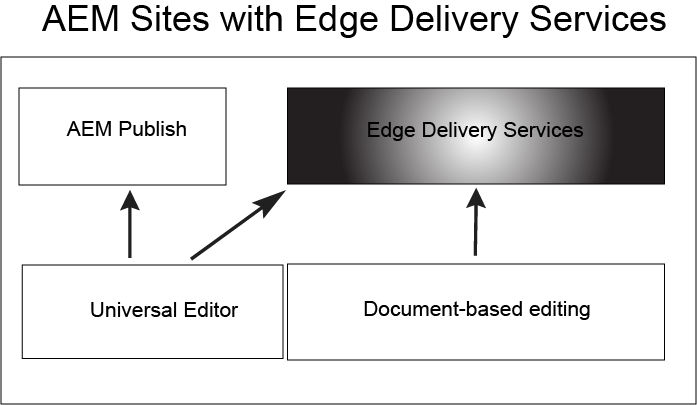
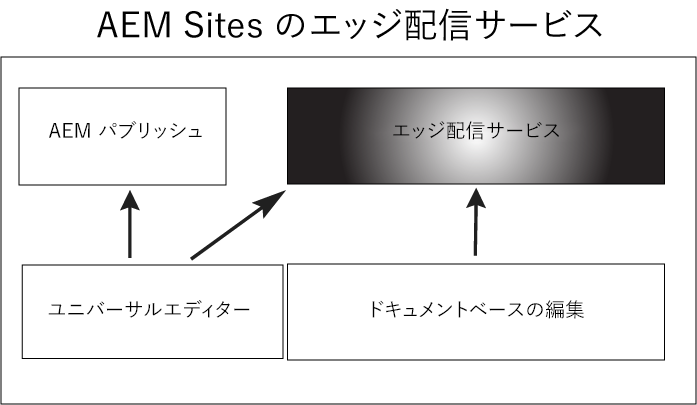
Updated by task 'AUTO_HANDOFF_PRIORITY_1706604686057'  Changes for core/source commit https://git.corp.adobe.com/AdobeDocs/experience-manager-cloud-service.en/commit/6ef216b101fdb3c7de49928ccb02b7c9c1bdbd41

diff --git a/help/release-notes/deprecated-removed-features.md b/help/release-notes/deprecated-removed-features.md
@@ -3,9 +3,9 @@ title: 廃止される機能および削除された機能
 description: リリースノート（ [!DNL Adobe Experience Manager] as a [!DNL Cloud Service] の非推奨（廃止予定）の機能と削除された機能）。
 exl-id: ef082184-4eb7-49c7-8887-03d925e3da6f
 source-git-commit: cb2c883fbadc5347dbe5fc50337abc41d4f5cec3
-workflow-type: tm+mt
+workflow-type: ht
 source-wordcount: '2068'
-ht-degree: 96%
+ht-degree: 100%
 
 ---
 
@@ -37,11 +37,11 @@ ht-degree: 96%
 | [!DNL Sites] | **ソーシャルメディアのステータス** のエクスペリエンスフラグメントのプロパティ。  | この機能は間もなく削除されます。 |
 | [!DNL Sites] | テンプレートベースのシンプルなコンテンツフラグメント。 | 現在は[モデルベースの構造化コンテンツフラグメント](/help/assets/content-fragments/content-fragments-models.md)。 |
 | [!DNL Assets] | 取り込んだ画像を処理する `DAM Asset Update` ワークフロー | 現在は、アセットの取り込みで[アセットマイクロサービス](/help/assets/asset-microservices-overview.md)が使用されています。 |
-| [!DNL Assets] | にアセットを直接アップロード [!DNL Experience Manager]. 詳しくは、 [非推奨（廃止予定）のアセットアップロード API](/help/assets/developer-reference-material-apis.md#deprecated-asset-upload-api). | [直接バイナリアップロード](/help/assets/add-assets.md)を使用。技術的な詳細については、[直接アップロード API](/help/assets/developer-reference-material-apis.md#upload-binary) を参照してください。 |
+| [!DNL Assets] | [!DNL Experience Manager] へのアセットの直接アップロード。[非推奨（廃止予定）のアセットアップロード API](/help/assets/developer-reference-material-apis.md#deprecated-asset-upload-api) を参照してください。 | [直接バイナリアップロード](/help/assets/add-assets.md)を使用。技術的な詳細については、[直接アップロード API](/help/assets/developer-reference-material-apis.md#upload-binary) を参照してください。 |
 | [!DNL Assets] | [!DNL ImageMagick] などのコマンドラインツールの呼び出しを含め、`DAM Asset Update` ワークフローの[特定のワークフローステップ](/help/assets/developer-reference-material-apis.md#post-processing-workflows-steps)はサポートされていません。 | [アセットマイクロサービス](/help/assets/asset-microservices-overview.md)が多くのワークフローの代替機能となります。カスタム処理の場合は、[後処理ワークフロー](/help/assets/asset-microservices-configure-and-use.md#post-processing-workflows)を使用します。 |
 | [!DNL Assets] | ビデオの FFmpeg トランスコード。 | FFmpeg サムネールの生成には、[アセットマイクロサービス](/help/assets/asset-microservices-overview.md)を使用。FFmpeg トランスコードの場合は、[Dynamic Media](/help/assets/manage-video-assets.md) を使用。 |
 | [!DNL Foundation] | レプリケーションエージェントの「配布」タブのツリーレプリケーション UI（2021 年 9 月 30 日以降に削除） | [公開を管理](/help/operations/replication.md#manage-publication)または[コンテンツツリーの公開ワークフロー](/help/operations/replication.md#publish-content-tree-workflow)アプローチ |
-| [!DNL Foundation] | レプリケーションエージェント管理画面の「配布」タブも、レプリケーション API も、10 MB を超えるコンテンツパッケージのレプリケーションに使用できません。 代わりに、次のいずれかを使用します。 [公開を管理](/help/operations/replication.md#manage-publication) または [コンテンツツリーの公開ワークフロー](/help/operations/replication.md#publish-content-tree-workflow) |
+| [!DNL Foundation] | レプリケーションエージェントの管理画面の「配布」タブも、レプリケーション API も、10 MB を超えるコンテンツパッケージのレプリケーションには使用できません。代わりに、[パブリケーションの管理](/help/operations/replication.md#manage-publication)または[コンテンツツリーワークフローの公開](/help/operations/replication.md#publish-content-tree-workflow)を使用します |
 
 ## 削除された機能 {#removed-features}
 
@@ -80,7 +80,7 @@ OSGI 設定に関する追加情報は、[この場所](/help/implementing/deplo
 * **`org.apache.sling.jcr.davex.impl.servlets.SlingDavExServlet`**（発表日：8/25/2021、施行日：11/26/2021）
 +++
 
-+++OSGi 設定は、ビルド検証ルールに従う必要があります。
++++ビルド検証ルールの対象となる OSGi 設定。
 * **`org.apache.felix.eventadmin.impl.EventAdmin`**（発表日：4/30/2021、施行日：7/31/2021）
 * `org.apache.felix.eventadmin.ThreadPoolSize`
    * 型：integer
@@ -232,7 +232,7 @@ OSGI 設定に関する追加情報は、[この場所](/help/implementing/deplo
     <td>com.day.cq.jcrclustersupport</td>
     <td>Sling の Discovery API を代わりに使用してください。</td>
     <td>2015</td>
-    <td>削除</td>
+    <td>削除済み</td>
   </tr>
   <tr>
     <td>org.apache.sling.settings</td>
@@ -244,13 +244,13 @@ OSGI 設定に関する追加情報は、[この場所](/help/implementing/deplo
     <td>org.apache.fop.apps</td>
     <td></td>
     <td>2021/3/1</td>
-    <td>削除</td>
+    <td>削除済み</td>
   </tr>
   <tr>
     <td>org.apache.jackrabbit.vault.util.xml.xerces.dom<br>org.apache.jackrabbit.vault.util.xml.xerces.util<br>org.apache.jackrabbit.vault.util.xml.xerces.xni<br>org.apache.jackrabbit.vault.util.xml.xerces.xni.parser</td>
     <td></td>
     <td>2021/3/5</td>
-    <td>削除</td>
+    <td>削除済み</td>
   </tr>
   <tr>
     <td>org.json</td>
@@ -262,7 +262,7 @@ OSGI 設定に関する追加情報は、[この場所](/help/implementing/deplo
     <td>org.apache.felix.cm<br>org.apache.felix.cm.file</td>
     <td>AEM as a Cloud Service では、カスタム永続性マネージャーはサポートされていません。</td>
     <td>2021/4/30</td>
-    <td>削除</td>
+    <td>削除済み</td>
   </tr>
   <tr>
     <td>org.apache.commons.lang<br>org.apache.commons.lang.enums<br>org.apache.commons.lang.builder<br>org.apache.commons.lang.exception<br>org.apache.commons.lang.math<br>org.apache.commons.lang.mutable<br>org.apache.commons.lang.reflect<br>org.apache.commons.lang.text<br>org.apache.commons.lang.time</td>
@@ -280,7 +280,7 @@ OSGI 設定に関する追加情報は、[この場所](/help/implementing/deplo
     <td>org.apache.felix.systemready</td>
     <td>Apache Felix HealthCheck API を代わりに使用することをお勧めします。</td>
     <td>2021/4/30</td>
-    <td>削除</td>
+    <td>削除済み</td>
   </tr>
   <tr>
     <td>org.apache.felix.webconsole<br>org.apache.felix.webconsole.bundleinfo<br>org.apache.felix.webconsole.i18n</td>
@@ -304,13 +304,13 @@ OSGI 設定に関する追加情報は、[この場所](/help/implementing/deplo
     <td>org.apache.felix.metatype<br>org.apache.felix.scr<br>org.apache.felix.scr.info<br>org.apache.felix.scr.component</td>
     <td>Apache Felix メタタイプと SCR API は非推奨（廃止予定）です。OSGi メタタイプおよび Declarative Service API を代わりに使用してください。</td>
     <td>2021/5/27</td>
-    <td>削除</td>
+    <td>削除済み</td>
   </tr>
   <tr>
     <td>org.slf4j.impl</td>
     <td>ログ実装クラスは、AEM as a Cloud Service と互換性がありません。</td>
     <td>2021/7/4</td>
-    <td>削除</td>
+    <td>削除済み</td>
   </tr>
   <tr>
     <td>org.apache.abdera<br>org.apache.abdera.model<br>org.apache.abdera.factory<br>org.apache.abdera.ext.media<br>org.apache.abdera.util<br>org.apache.abdera.i18n.iri<br>org.apache.abdera.writer<br>org.apache.abdera.i18n.rfc4646<br>org.apache.abdera.i18n.rfc4646.enums<br>org.apache.abdera.i18n.text<br>org.apache.abdera.filter<br>org.apache.abdera.xpath<br>org.apache.abdera.i18n.text.io<br>org.apache.abdera.i18n.text.data<br>org.apache.abdera.parser</td>
@@ -328,19 +328,19 @@ OSGI 設定に関する追加情報は、[この場所](/help/implementing/deplo
     <td>org.apache.sling.startupfilter<br>com.adobe.granite.crypto.spi<br>com.adobe.granite.crpyto.spi.base<br>com.adobe.agl.impl.data.icudt40b<br>com.adobe.agl.impl.data.icudt40b.brkitr<br>com.adobe.agl.impl.data.icudt40b.coll<br>com.adobe.agl.impl.data.icudt40b.rbnf<br>com.<br>adobe.agl.impl.data.icudt40b.translit<br>com.adobe.internal.pdf.tika<br>com.adobe.internal.pdftoolkit.color<br>com.adobe.internal.pdftoolkit.core.encryption<br>com.adobe.internal.pdftoolkit.core.encryption.impl<br>com.adobe.internal.pdftoolkit.core.traverser<br>com.adobe.internal.pdftoolkit.graphicsDOM<br>com.adobe.internal.pdftoolkit.graphicsDOM.shading<br>com.adobe.internal.pdftoolkit.graphicsDOM.utils<br>com.adobe.internal.pdftoolkit.image<br>com.adobe.internal.pdftoolkit.pdf.content<br>com.adobe.internal.pdftoolkit.pdf.content.processor<br>com.adobe.internal.pdftoolkit.pdf.content.processor.base14fontwidths<br>com.adobe.internal.pdftoolkit.pdf.contentmodify<br>com.adobe.internal.pdftoolkit.pdf.contentmodify.impl<br>com.adobe.internal.pdftoolkit.pdf.digsig<br>com.adobe.internal.pdftoolkit.pdf.document<br>com.adobe.internal.pdftoolkit.pdf.document.listener<br>com.adobe.internal.pdftoolkit.pdf.document.permissionhandlers<br>com.adobe.internal.pdftoolkit.pdf.filters<br>com.adobe.internal.pdftoolkit.pdf.graphics<br>com.adobe.internal.pdftoolkit.pdf.graphics.colorspaces<br>com.adobe.internal.pdftoolkit.pdf.graphics.colorspaces.cmykresources<br>com.adobe.internal.pdftoolkit.pdf.graphics.font<br>com.adobe.internal.pdftoolkit.pdf.graphics.font.encodings<br>com.adobe.internal.pdftoolkit.pdf.graphics.font.impl<br>com.adobe.internal.pdftoolkit.pdf.graphics.impl<br>com.adobe.internal.pdftoolkit.pdf.graphics.optionalcontent<br>com.adobe.internal.pdftoolkit.pdf.graphics.patterns<br>com.adobe.internal.pdftoolkit.pdf.graphics.shading<br>com.adobe.internal.pdftoolkit.pdf.graphics.xobject<br>com.adobe.internal.pdftoolkit.pdf.impl<br>com.adobe.internal.pdftoolkit.pdf.inlineimage<br>com.adobe.internal.pdftoolkit.pdf.interactive<br>com.adobe.internal.pdftoolkit.pdf.interactive.action<br>com.adobe.internal.pdftoolkit.pdf.interactive.annotation<br>com.adobe.internal.pdftoolkit.pdf.interactive.forms<br>com.adobe.internal.pdftoolkit.pdf.interactive.forms.impl<br>com.adobe.internal.pdftoolkit.pdf.interactive.geospatial<br>com.adobe.internal.pdftoolkit.pdf.interactive.markedcontent<br>com.adobe.internal.pdftoolkit.pdf.interactive.navigation<br>com.adobe.internal.pdftoolkit.pdf.interactive.navigation.collection<br>com.adobe.internal.pdftoolkit.pdf.interactive.readerrequirements<br>com.adobe.internal.pdftoolkit.pdf.interactive.requirement<br>com.adobe.internal.pdftoolkit.pdf.interchange<br>com.adobe.internal.pdftoolkit.pdf.interchange.documentparts<br>com.adobe.internal.pdftoolkit.pdf.interchange.metadata<br>com.adobe.internal.pdftoolkit.pdf.interchange.prepress<br>com.adobe.internal.pdftoolkit.pdf.interchange.structure<br>com.adobe.internal.pdftoolkit.pdf.multimedia<br>com.adobe.internal.pdftoolkit.pdf.page<br>com.adobe.internal.pdftoolkit.pdf.rendering<br>com.adobe.internal.pdftoolkit.pdf.transparency<br>com.adobe.internal.pdftoolkit.pdf.utils<br>com.adobe.internal.pdftoolkit.services.Jpeg2000<br>com.adobe.internal.pdftoolkit.services.fontresources<br>com.adobe.internal.pdftoolkit.services.fontresources.subsetting<br>com.adobe.internal.pdftoolkit.services.interchange.structure<br>com.adobe.internal.pdftoolkit.services.optionalcontent<br>com.adobe.internal.pdftoolkit.services.optionalcontent.impl<br>com.adobe.internal.pdftoolkit.services.pdfParser<br>com.adobe.internal.pdftoolkit.services.permissions<br>com.adobe.internal.pdftoolkit.services.rasterizer<br>com.adobe.internal.pdftoolkit.services.readingorder<br>com.adobe.internal.pdftoolkit.services.security<br>com.adobe.internal.pdftoolkit.services.swf<br>com.adobe.internal.pdftoolkit.services.textextraction<br>com.adobe.internal.pdftoolkit.services.textextraction.impl<br>com.adobe.internal.pdftoolkit.services.xmp<br>com.adobe.internal.util.base64<br>com.adobe.internal.xmp.utils<br>com.day.crx.core.cluster<br>com.day.crx.packaging<br>com.day.crx.packaging.gfx<br>com.day.crx.query<br>com.day.crx.sling.server.jmx<br>com.day.durbo<br>com.day.durbo.io<br>com.day.imageio.plugins<br>org.apache.aries.jmx.codec<br>org.h2.mvstore<br>org.h2.mvstore.rtree<br>org.h2.mvstore.type<br>org.openxmlformats.schemas.drawingml.x2006.chart.impl<br>org.openxmlformats.schemas.drawingml.x2006.main.impl<br>org.openxmlformats.schemas.drawingml.x2006.picture.impl<br>org.openxmlformats.schemas.drawingml.x2006.spreadsheetDrawing.impl<br>org.openxmlformats.schemas.drawingml.x2006.wordprocessingDrawing.impl<br>org.openxmlformats.schemas.officeDocument.x2006.customProperties.impl<br>org.openxmlformats.schemas.officeDocument.x2006.docPropsVTypes.impl<br>org.openxmlformats.schemas.officeDocument.x2006.extendedProperties.impl<br>org.openxmlformats.schemas.officeDocument.x2006.relationships.impl<br>org.openxmlformats.schemas.presentationml.x2006.main.impl<br>org.openxmlformats.schemas.spreadsheetml.x2006.main.impl<br>org.openxmlformats.schemas.wordprocessingml.x2006.main.impl<br>org.openxmlformats.schemas.xpackage.x2006.contentTypes<br>org.openxmlformats.schemas.xpackage.x2006.contentTypes.impl<br>org.openxmlformats.schemas.xpackage.x2006.digitalSignature<br>org.openxmlformats.schemas.xpackage.x2006.digitalSignature.impl<br>org.openxmlformats.schemas.xpackage.x2006.metadata.coreProperties<br>org.openxmlformats.schemas.xpackage.x2006.metadata.coreProperties.impl<br>org.openxmlformats.schemas.xpackage.x2006.relationships<br>org.openxmlformats.schemas.xpackage.x2006.relationships.impl<br>com.adobe.internal.afml<br>com.adobe.internal.agm<br>com.adobe.internal.pdftoolkit.legacy.services.ap.es2<br>com.adobe.internal.pdftoolkit.legacy.services.ap.es3<br>com.adobe.internal.pdftoolkit.pdf.pieceinfo.compoundtype<br>com.adobe.internal.pdftoolkit.pdf.pieceinfo.editablepdf<br>com.adobe.internal.pdftoolkit.services.ap<br>com.adobe.internal.pdftoolkit.services.ap.annot<br>com.adobe.internal.pdftoolkit.services.ap.extension<br>com.adobe.internal.pdftoolkit.services.ap.impl<br>com.adobe.internal.pdftoolkit.services.ap.spi<br>com.adobe.internal.pdftoolkit.services.digsig<br>com.adobe.internal.pdftoolkit.services.digsig.cryptoprovider<br>com.adobe.internal.pdftoolkit.services.digsig.docmodanalysis<br>com.adobe.internal.pdftoolkit.services.digsig.spi<br>com.adobe.internal.pdftoolkit.services.fdf<br>com.adobe.internal.pdftoolkit.services.formflattener<br>com.adobe.internal.pdftoolkit.services.forms<br>com.adobe.internal.pdftoolkit.services.imageconversion<br>com.adobe.internal.pdftoolkit.services.javascript<br>com.adobe.internal.pdftoolkit.services.javascript.extension<br>com.adobe.internal.pdftoolkit.services.manipulations<br>com.adobe.internal.pdftoolkit.services.manipulations.impl<br>com.adobe.internal.pdftoolkit.services.optimizer<br>com.adobe.internal.pdftoolkit.services.pdfa<br>com.adobe.internal.pdftoolkit.services.pdfa.error<br>com.adobe.internal.pdftoolkit.services.pdfa2<br>com.adobe.internal.pdftoolkit.services.pdfa2.error<br>com.adobe.internal.pdftoolkit.services.pdfa2.error.codes<br>com.adobe.internal.pdftoolkit.services.pdfa3<br>com.adobe.internal.pdftoolkit.services.pdfport<br>com.adobe.internal.pdftoolkit.services.portfolio<br>com.adobe.internal.pdftoolkit.services.rcg<br>com.adobe.internal.pdftoolkit.services.rcg.impl<br>com.adobe.internal.pdftoolkit.services.redaction<br>com.adobe.internal.pdftoolkit.services.redaction.handler<br>com.adobe.internal.pdftoolkit.services.sanitization<br>com.adobe.internal.pdftoolkit.services.xbm<br>com.adobe.internal.pdftoolkit.services.xdp<br>com.adobe.internal.pdftoolkit.services.xfa<br>com.adobe.internal.pdftoolkit.services.xfa.form<br>com.adobe.internal.pdftoolkit.services.xfatext<br>com.adobe.internal.pdftoolkit.services.xfdf<br>com.adobe.internal.pdftoolkit.services.xobjhandler<br>com.adobe.internal.pdftoolkit.xml<br>com.adobe.octopus.extract<br>opennlp.tools.doccat<br>opennlp.tools.entitylinker<br>opennlp.tools.formats<br>opennlp.tools.formats.ad<br>opennlp.tools.formats.brat<br>opennlp.tools.formats.convert<br>opennlp.tools.formats.frenchtreebank<br>opennlp.tools.formats.muc<br>opennlp.tools.formats.ontonotes<br>opennlp.tools.lemmatizer<br>opennlp.tools.parser<br>opennlp.tools.parser.chunking<br>opennlp.tools.parser.lang.en<br>opennlp.tools.parser.lang.es<br>opennlp.tools.parser.treeinsert<br>opennlp.tools.sentdetect<br>opennlp.tools.sentdetect.lang<br>opennlp.tools.sentdetect.lang.th<br>opennlp.tools.stemmer<br>opennlp.tools.stemmer.snowball<br>opennlp.tools.tokenize.lang.en<br>org.apache.commons.imaging.color<br>org.apache.commons.imaging.common<br>org.apache.commons.imaging.common.itu_t4<br>org.apache.commons.imaging.common.mylzw<br>org.apache.commons.imaging.formats.bmp<br>org.apache.commons.imaging.formats.dcx<br>org.apache.commons.imaging.formats.gif<br>org.apache.commons.imaging.formats.icns<br>org.apache.commons.imaging.formats.ico<br>org.apache.commons.imaging.formats.jpeg<br>org.apache.commons.imaging.formats.jpeg.decoder<br>org.apache.commons.imaging.formats.jpeg.exif<br>org.apache.commons.imaging.formats.jpeg.iptc<br>org.apache.commons.imaging.formats.jpeg.segments<br>org.apache.commons.imaging.formats.jpeg.xmp<br>org.apache.commons.imaging.formats.pcx<br>org.apache.commons.imaging.formats.png<br>org.apache.commons.imaging.formats.png.chunks<br>org.apache.commons.imaging.formats.png.scanlinefilters<br>org.apache.commons.imaging.formats.png.transparencyfilters<br>org.apache.commons.imaging.formats.pnm<br>org.apache.commons.imaging.formats.psd<br>org.apache.commons.imaging.formats.psd.dataparsers<br>org.apache.commons.imaging.formats.psd.datareaders<br>org.apache.commons.imaging.formats.rgbe<br>org.apache.commons.imaging.formats.tiff<br>org.apache.commons.imaging.formats.tiff.constants<br>org.apache.commons.imaging.formats.tiff.datareaders<br>org.apache.commons.imaging.formats.tiff.fieldtypes<br>org.apache.commons.imaging.formats.tiff.photometricinterpreters<br>org.apache.commons.imaging.formats.tiff.taginfos<br>org.apache.commons.imaging.formats.tiff.write<br>org.apache.commons.imaging.formats.wbmp<br>org.apache.commons.imaging.formats.xbm<br>org.apache.commons.imaging.formats.xpm<br>org.apache.commons.imaging.icc<br>org.apache.commons.imaging.palette<br>org.apache.commons.imaging.util<br>com.adobe.dam.print.ids.utils<br>com.day.cq.dam.api.reporting<br>com.day.cq.dam.entitlement.api<br>com.day.cq.dam.handler.standard.epub<br>com.day.cq.dam.handler.standard.keynote<br>com.day.cq.dam.handler.standard.mp3<br>com.day.cq.dam.handler.standard.msoffice<br>com.day.cq.dam.handler.standard.msoffice.wmf<br>com.day.cq.dam.handler.standard.ooxml<br>com.day.cq.dam.handler.standard.pdf<br>com.day.cq.dam.handler.standard.pict<br>com.day.cq.dam.handler.standard.ps<br>com.day.cq.dam.handler.standard.psd<br>com.day.cq.dam.handler.standard.zip<br>com.day.cq.dam.word.extraction<br>com.day.cq.dam.word.process<br>com.adobe.xmp.worker.files<br>com.adobe.cq.address.api<br>com.adobe.cq.address.api.location<br>com.day.cq.mcm.emailprovider.impl.types<br>com.day.io<br>com.day.io.disk<br>com.day.io.file<br>org.apache.commons.exec.environment<br>org.apache.commons.exec.launcher<br>org.apache.commons.exec.util<br>com.google.zxing<br>com.google.zxing.common<br>com.google.zxing.common.reedsolomon<br>com.google.zxing.qrcode.decoder<br>com.google.zxing.qrcode.encoder<br>com.adobe.cq.dam.dm.internalapi.image_server<br>com.day.cq.dam.api.s7dam.jobs<br>com.day.cq.dam.api.s7dam.omnisearch<br>com.day.cq.dam.api.s7dam.scene7<br>com.day.cq.dam.scene7<br>com.day.cq.dam.scene7.api.net<br>com.day.cq.analytics.sitecatalyst.rsmerger<br>com.day.cq.searchpromote<br>com.day.cq.searchpromote.xml<br>com.day.cq.searchpromote.xml.form<br>com.day.cq.searchpromote.xml.result&gt;</td>
     <td>従来の AEM 6.x API。</td>
     <td>2019/4/8</td>
-    <td>削除</td>
+    <td>削除済み</td>
   </tr>
   <tr>
     <td>org.apache.sling.discovery.commons<br>org.apache.sling.discovery.commons.providers<br>org.apache.sling.discovery.commons.providers.base<br>org.apache.sling.discovery.commons.providers.spi<br>org.apache.sling.discovery.commons.providers.spi.base<br>org.apache.sling.discovery.commons.providers.util</td>
     <td>この API は Cloud Service ではサポートされていません。</td>
     <td>2021/9/30</td>
-    <td>削除</td>
+    <td>削除済み</td>
   </tr>
   <tr>
     <td>org.apache.jackrabbit.vault.util.xml<br>org.apache.jackrabbit.vault.util.xml.serialize</td>
     <td>Apache Xerces に関連する Util クラスは、後続のリリースで削除され、メジャーバージョンが変更されます。これらのユーティリティは Filevault の内部使用のためのものであるため、API はパブリック API サーフェスから非推奨になります。</td>
     <td>2021/9/1</td>
-    <td>削除</td>
+    <td>削除済み</td>
   <tr>
     <td>org.apache.sling.atom.taglib<br>org.apache.sling.atom.taglib.media</td>
     <td>従来の AEM 6.x API。</td>

diff --git a/help/assets/release-notes-enhanced-connector-workfront.md b/help/assets/release-notes-enhanced-connector-workfront.md
@@ -3,9 +3,9 @@ title: ' [!DNL Workfront for Experience Manager enhanced connector] のリリー
 description: ' [!DNL Workfront for Experience Manager enhanced connector] のリリースノート'
 exl-id: 12de589d-fe5d-4bd6-b96b-48ec8f1ebcb6
 source-git-commit: b1c5df329e45128704ae82f49673c6a755a61a73
-workflow-type: tm+mt
+workflow-type: ht
 source-wordcount: '1573'
-ht-degree: 86%
+ht-degree: 100%
 
 ---
 
@@ -21,25 +21,25 @@ ht-degree: 86%
 
 [!DNL Workfront for Experience Manager enhanced connector] の最新バージョンには、次のバグ修正が含まれています。
 
-* The [!DNL Workfront] の設定 [!DNL CRX DE] は現在、 `project ID`読み取り専用権限を適用するとエラーが発生する問題を修正しました。 方法の詳細 [権限の設定](https://experienceleague.adobe.com/docs/experience-manager-65/content/assets/integrations/workfront-connector-configure.html#linked-folders).
+* 現在、[!DNL CRX DE] の [!DNL Workfront] 設定には `project ID` が保存されていないので、読み取り専用権限を適用する際にエラーが発生します。方法について詳しくは、[権限の設定](https://experienceleague.adobe.com/docs/experience-manager-65/content/assets/integrations/workfront-connector-configure.html?lang=ja#linked-folders)を参照してください。
 
-* 標準提供のインデックス定義にカスタムプロパティを追加する方法に関する公開ドキュメントはありません。 詳細情報： [カスタムプロパティの追加](https://experienceleague.adobe.com/docs/experience-manager-65/content/assets/integrations/workfront-connector-configure.html#metadata-schema-mapping).
+* カスタムプロパティを標準インデックス定義に追加する方法に関する公開ドキュメントはありません。詳しくは、[カスタムプロパティの追加](https://experienceleague.adobe.com/docs/experience-manager-65/content/assets/integrations/workfront-connector-configure.html?lang=ja#metadata-schema-mapping)を参照してください。
 
-* 拡張コネクタで接続設定を削除すると、イベント購読や保存されているその他の設定に大きな影響を与え、古い URL を指すようになります。
+* 拡張コネクタの接続設定を削除すると、イベント購読やその他の保存された設定に大きな影響を与え、古い URL を指すようになります。
 
-* forms アドオンパッケージをインストールしても、 **[!UICONTROL ルーターを切り替え]**&#x200B;を返し、 [!DNL WFEC AMS environment Toggle] 機能。
+* Forms アドオンパッケージをインストールしても&#x200B;**[!UICONTROL ルーターの切り替え機能]**&#x200B;がインストールされないので、[!DNL WFEC AMS environment Toggle] 機能にエラーが発生します。
 
-* EWC 設定でイベントサブスクリプションを有効にすると、 `HTTP 400` 設定中にエラーが発生しました [!DNL Workfront] 初めて拡張されたコネクタです。
+* EWC 設定でイベント購読を有効にすると、[!DNL Workfront] 拡張コネクタを初めて設定する際に、API 呼び出しが繰り返し失敗し、`HTTP 400` エラーが発生します。
 
-* Workfrontでリンクされたフォルダーアセットに対するコメントを削除すると、AEM上でリンクされたフォルダーパスが見つかりません。
+* Workfront でリンクされたフォルダーアセットのコメントを削除すると、AEM でリンクされたフォルダーのパスが見つかりません。
 
-* AEMでのサイズの大きいファイルアセットのサポートが不十分な場合、4 バイトのサイズの問題が発生します。
+* AEM での大きなファイルアセットのサポートが不十分な場合、4 バイトサイズの問題が発生します。
 
-* リンクされたフォルダー内のクリティカルフローのリクエスト時間処理、ドキュメントの更新、メモの更新は行われません。
+* リンクされたフォルダー内の重要なフロー、ドキュメントの更新およびメモの更新に対するリクエスト時間の処理はありません。
 
 >[!NOTE]
 >
->AEM 6.4 は、拡張サポートの終了に達しました。詳しくは、 [技術サポート期間](https://helpx.adobe.com/jp/support/programs/eol-matrix.html). サポートされているバージョンについては、[ここ](https://experienceleague.adobe.com/docs/?lang=ja)をご覧ください。
+>AEM 6.4 は、拡張サポートの終了に達しました。詳しくは、[技術サポート期間](https://helpx.adobe.com/jp/support/programs/eol-matrix.html)を参照してください。サポートされているバージョンについては、[ここ](https://experienceleague.adobe.com/docs/?lang=ja)をご覧ください。
 
 
 >[!IMPORTANT]
@@ -50,14 +50,14 @@ ht-degree: 86%
 
 * AEM 6.4 でプロジェクトにリンクしたフォルダーを設定する際に、Experience Manager は「**[!UICONTROL sub-folders]**」フィールドと「**[!UICONTROL Create linked folder in projects with portfolio]**」フィールドの値を保存しません。設定を保存すると、「**[!UICONTROL sub-folders]**」フィールドの値が **[!UICONTROL undefined]** に、「**[!UICONTROL Create linked folder in projects with portfolio]**」フィールドの値が **[!UICONTROL Default Portfolio]** に、それぞれ自動的に更新されます。
 
-* 従来のWorkfrontエクスペリエンスを使用している場合、 **[!UICONTROL 送信先]** オプションは **[!UICONTROL その他]** 」ドロップダウンリストでは、「Experience Manager」内でターゲットの宛先を選択できません。 「**[!UICONTROL ドキュメントアクション]**」ドロップダウンリストを使用する場合、「**[!UICONTROL 送信先]**」オプションは正常に機能します。新しい Workfront エクスペリエンスの「**[!UICONTROL 詳細]**」ドロップダウンリストと「**[!UICONTROL ドキュメントアクション]**」ドロップダウンリストでは、「**[!UICONTROL 送信先]**」オプションは正常に機能します。
+* 従来の Workfront エクスペリエンスを使用している場合、**[!UICONTROL 詳細]**&#x200B;ドロップダウンリストで選択できる「**[!UICONTROL 送信先]**」オプションでは、Experience Manager 内のターゲット宛先を選択できません。「**[!UICONTROL ドキュメントアクション]**」ドロップダウンリストを使用する場合、「**[!UICONTROL 送信先]**」オプションは正常に機能します。新しい Workfront エクスペリエンスの「**[!UICONTROL 詳細]**」ドロップダウンリストと「**[!UICONTROL ドキュメントアクション]**」ドロップダウンリストでは、「**[!UICONTROL 送信先]**」オプションは正常に機能します。
 
 ## 以前のリリース {#previous-releases}
 
 ### 2023年11月リリース {#november-2023-release}
 
-* AEMフォルダーのリストを表示している間、ダイアログの読み込みに 1 分以上かかります。
-* 認証済み [!DNL Workfront] ユーザーは、常に認証失敗エラーログを受け取っています。
+* AEM フォルダーのリストを表示している間、ダイアログの読み込みに 1 分以上かかります。
+* 承認済み [!DNL Workfront] ユーザーは、常に認証失敗エラーログを受信しています。
 
 ### 2023年10月リリース {#october-2023-release}
 

diff --git a/help/edge/using.md b/help/edge/using.md
@@ -1,52 +1,52 @@
 ---
 title: Edge 配信サービスの使用
-description: AEM as a Cloud ServiceをEdge Delivery Servicesと共に使用する方法を説明します。
+description: AEM as a Cloud Service を Edge 配信サービスで使用する方法について説明します。
 feature: Edge Delivery Services
 exl-id: 41999302-b4c9-4f5a-b659-6e7398a3c4f4
 source-git-commit: 5b24b984ea738096ef67b72a3d96e9b5931d2200
-workflow-type: tm+mt
+workflow-type: ht
 source-wordcount: '385'
-ht-degree: 15%
+ht-degree: 100%
 
 ---
 
 
 # Edge 配信サービスの使用 {#usingedge}
 
-Edge Delivery Servicesを使用すると、作成者がコンテンツをすばやく更新および公開でき、新しいサイトを迅速に起動できる、迅速な開発環境を作成できます。 そのため、同じ web サイト上で複数のコンテンツソースを操作でき、選択したソースに関係なく、シームレスに公開を効率化できます。したがって、編集からインターネット上のコンテンツが表示されるまでに、数秒しかかかりません。
+Edge 配信サービスを使用すると、作成者がコンテンツをすばやく更新および公開、新しいサイトを迅速に立ち上げる、迅速な開発環境を作成できます。そのため、同じ web サイト上で複数のコンテンツソースを操作でき、選択したソースに関係なく、シームレスに公開を効率化できます。したがって、編集からインターネット上のコンテンツが表示されるまでに、数秒しかかかりません。
 
-Edge Delivery Servicesはコンテンツソースから切り離されており、異なるコンテンツソースからコンテンツを取り込むことができます。
+Edge 配信サービスは、コンテンツソースから切り離され、様々なコンテンツソースからコンテンツを取り込むことができます。
 
-![エッジ配信のコンテンツソース](assets/content-sources.png)
+![Edge 配信のコンテンツソース](assets/content-sources.png)
 
-複数のコンテンツソースから取り込むと、ユーザーは極めて柔軟に取り込むことができます。 Adobeは、プロジェクトに最適なコンテンツソースを選択するのに役立つガイダンスを提供します。
+複数のコンテンツソースからの取り込みにより、ユーザーには最大限の柔軟性が提供されます。アドビでは、プロジェクトに最適なコンテンツソースを選択するのに役立つガイダンスを提供します。
 
-コンテンツソースが事前に定義されている場合や、柔軟でない場合があります ( 例えば、プロジェクトで SharePoint やGoogle Drive を使用できない場合など )。 しかし、多くの場合、ツールは事前に定められておらず、ツールの選択は黒と白ではありません。
+コンテンツソースが事前定義されている場合や、柔軟性がない場合があります（例: プロジェクトで Sharepoint や Google ドライブを使用できない）。ただし、多くの場合、ツールは事前に定められておらず、ツールの選択に明確な区別はありません。
 
-Adobeの導きの原理はシンプルさです。 ドキュメントベースのオーサリングから始め、必要に応じて複雑さを増やします。 ツールの変更が必要な場合、AEMEdge Delivery Servicesの統合では、コンテンツの移行について説明します。
+アドビの指針はシンプルさです。ドキュメントベースのオーサリングから始めて、必要に応じて複雑さを追加します。ツールの変更が必要な場合は、AEM の Edge 配信サービスの統合によってコンテンツの移行がカバーされます。
 
 ![コンテンツソースの柔軟性](assets/content-source-flexiblity.png)
 
 ## オーサリング {#authoring-edge}
 
-Edge Delivery Servicesを使用すると、オーサリングが簡単で、高速で、柔軟です。 ユニバーサルエディターを使用して、AEMでのドキュメントベースのオーサリングまたはオーサリングを使用してオーサリングを選択できます。
+Edge 配信サービスを使用すると、オーサリングが簡単、迅速、柔軟に行えます。ドキュメントベースのオーサリングを使用してオーサリングを行うか、ユニバーサルエディターを使用して AEM でオーサリングを行うかを選択できます。
 
-ドキュメントを参照してください [Edge Delivery Services用コンテンツのオーサリング](authoring.md) を参照してください。
+詳しくは、[Edge 配信サービス向けのコンテンツのオーサリング](authoring.md)を参照してください。
 
 ## 公開 {#publishing-edge}
 
-Edge Delivery Servicesを使用すれば、コンテンツソースに関係なく、コンテンツの公開がシームレスに行われます。
+Edge 配信サービスを使用すると、コンテンツソースに関係なく、コンテンツの公開をシームレスに行えます。
 
-ドキュメントを参照してください [Edge Delivery Services用コンテンツの公開](publishing.md) を参照してください。
+詳しくは、[Edge 配信サービス向けのコンテンツの公開](publishing.md)を参照してください。
 
 ## 開発 {#developing-edge}
 
-Edge Delivery Servicesは、ブロックの概念に基づいています。 AEMには、事前定義済みのブロックの包括的なライブラリが付属しており、プロジェクトのニーズに合わせて拡張できます。 Edge Delivery Servicesプロジェクトのコードは GitHub で管理されます。
+Edge 配信サービスは、ブロックの概念に基づいています。AEM には、プロジェクトのニーズに合わせて拡張できる事前定義済みのブロックの包括的なライブラリが付属しています。Edge 配信サービスプロジェクトのコードは、GitHub で管理されます。
 
-ドキュメントを参照してください [Edge Delivery Services向け開発](developing.md) を参照してください。
+詳しくは、[Edge 配信サービス向けの開発](developing.md)を参照してください。
 
-## 既存のAEMプロジェクト {#existing-projects}
+## 既存の AEM プロジェクト {#existing-projects}
 
-Edge Delivery Servicesの恩恵を受けるために、新しいAEMプロジェクトを待つ必要はありません。 Edge Delivery Servicesを既存のAEMプロジェクトに統合して、そのパフォーマンスの向上をすぐに活用できます。
+新しい AEM プロジェクトで Edge 配信サービスのメリットを活用できるようになるまで待つ必要はありません。Edge 配信サービスは既存の AEM プロジェクトに統合できるので、パフォーマンスの向上をすぐに活用できます。
 
-ドキュメントを参照してください [既存のAEMプロジェクトでのEdge Delivery Servicesの使用](existing-projects.md) を参照してください。
+詳しくは、[既存の AEM プロジェクトでの Edge 配信サービスの使用](existing-projects.md)を参照してください。
